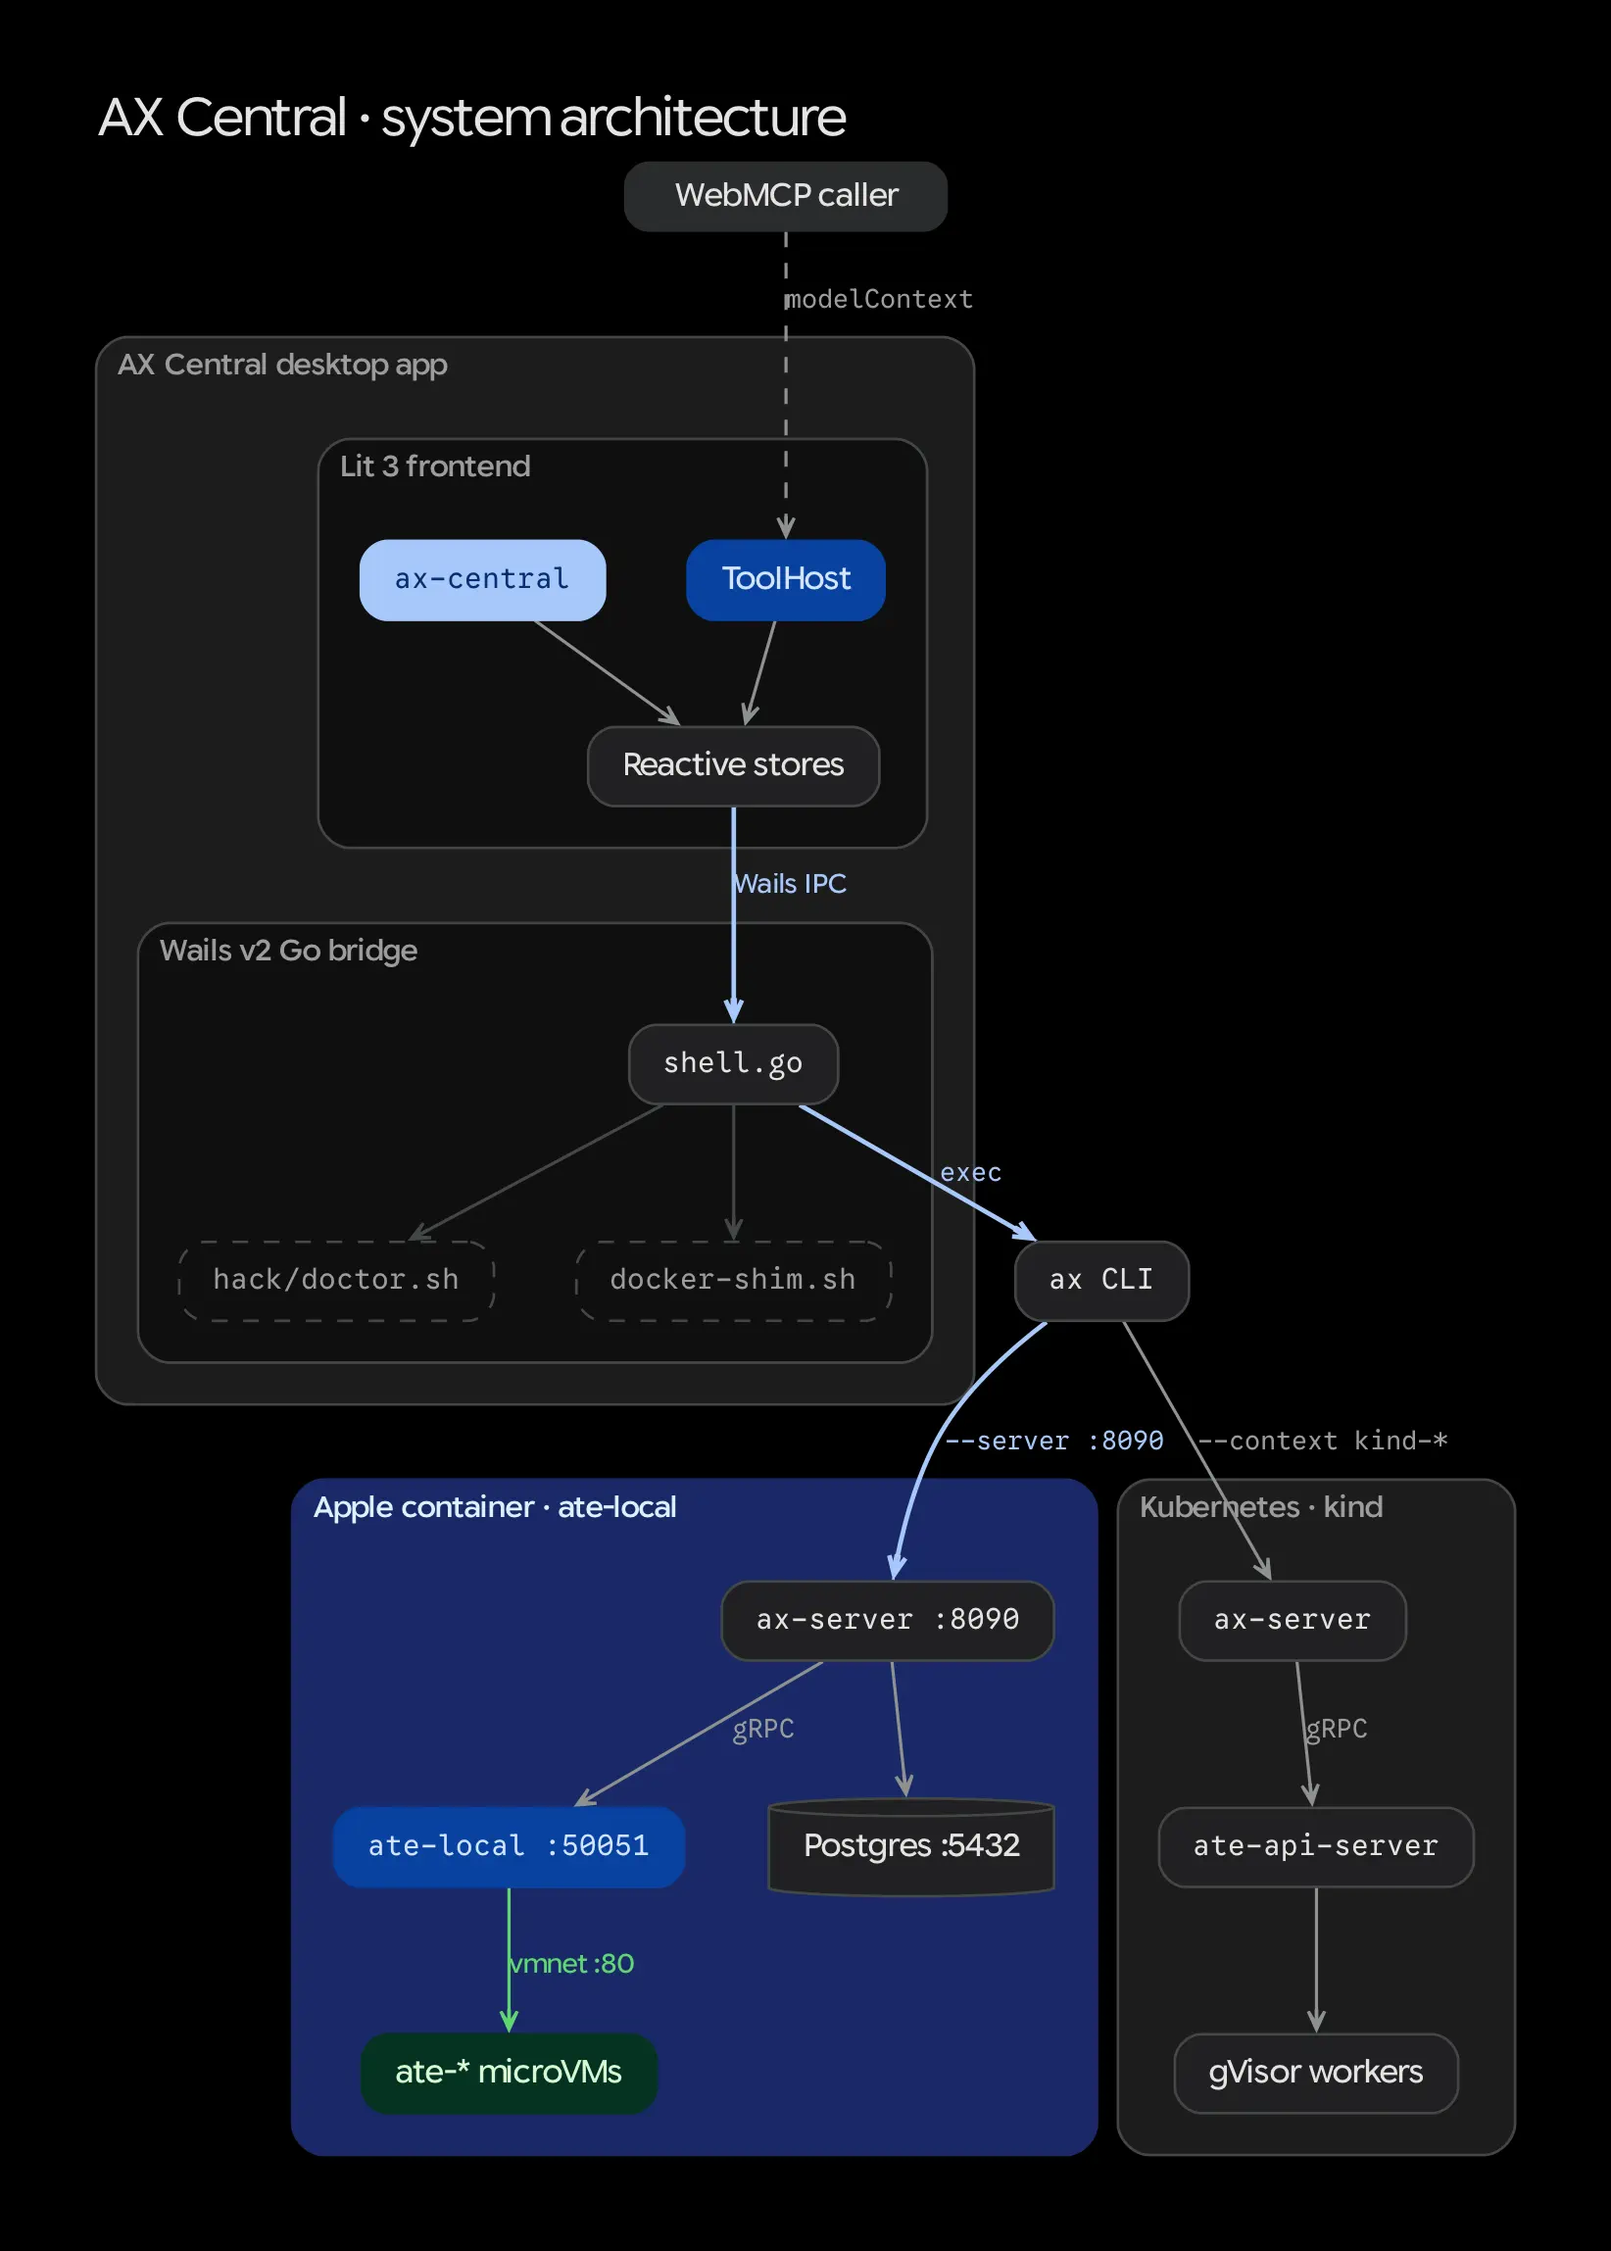
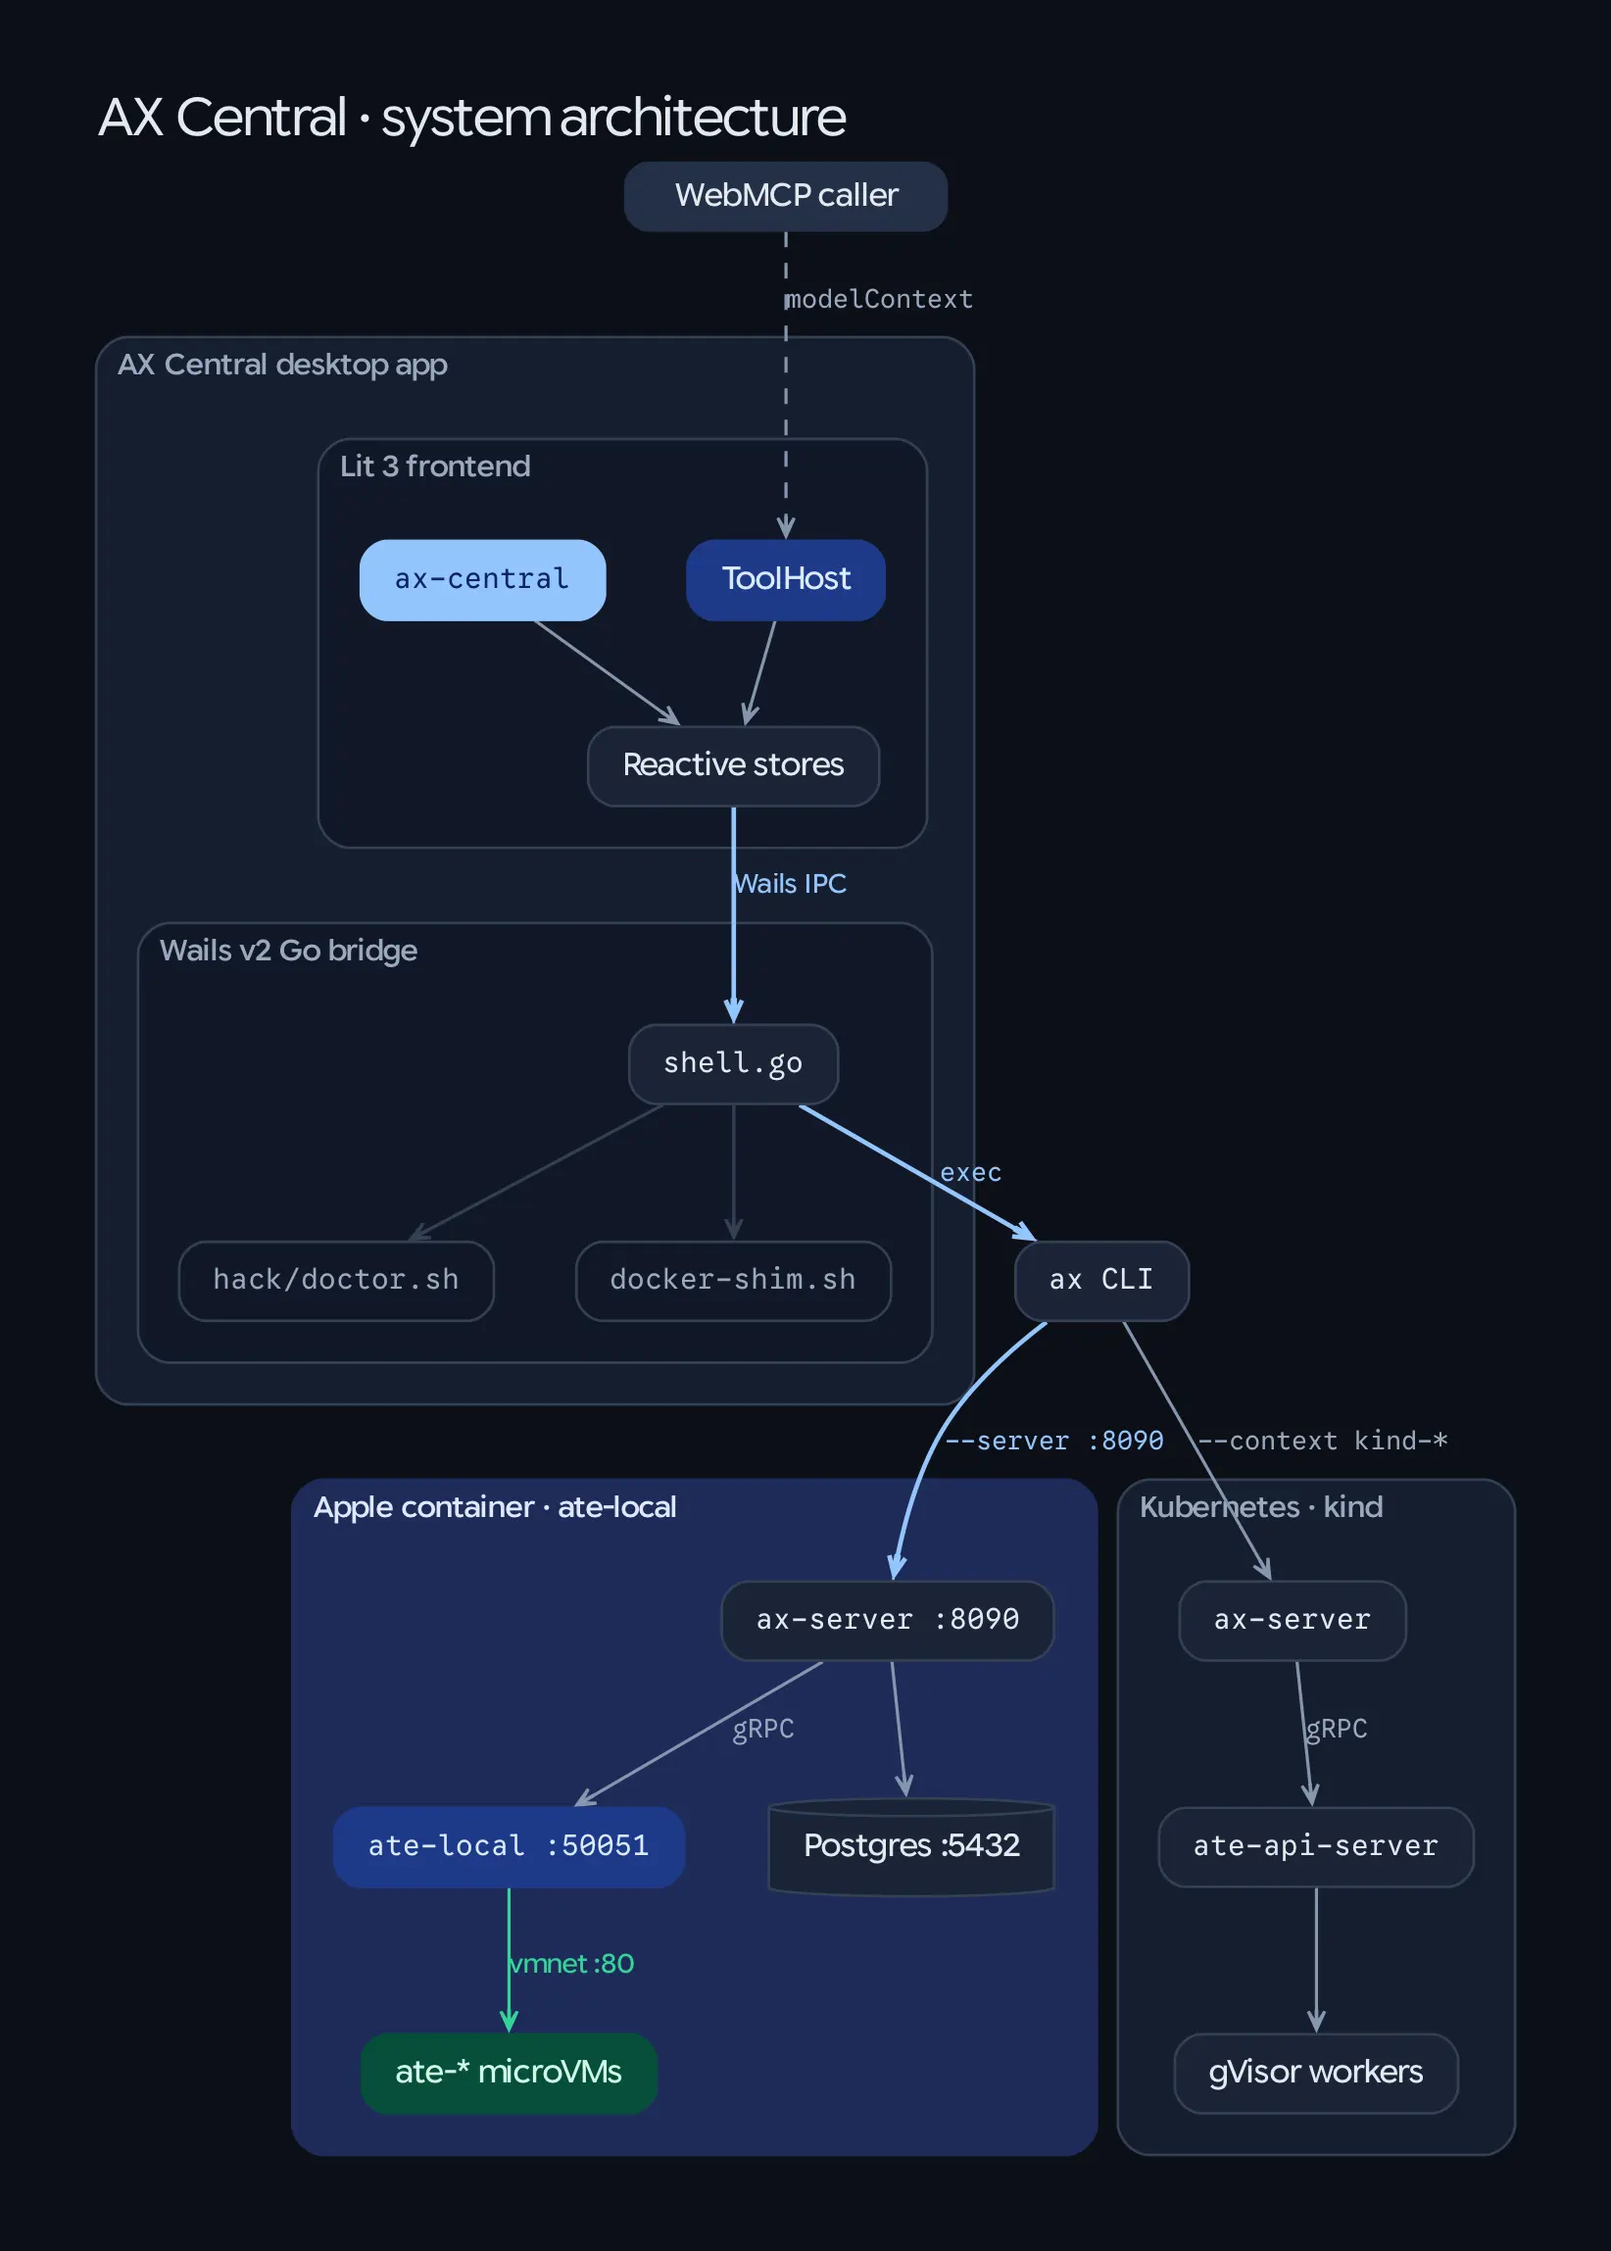
chore(docs): update make diagrams to ../graphviz-style/theme/lustrous.gvpr
Switches Makefile, directives, and CLI reference from the removed
luminous.gvpr path to ../graphviz-style/theme/lustrous.gvpr and
re-renders docs/diagrams/*-{light,dark}.webp.

diff --git a/.agents/directives/docs-and-visuals.md b/.agents/directives/docs-and-visuals.md
@@ -1,6 +1,6 @@
 # Documentation, Diagrams & Visual Assets Directive
 
-This directive governs `README.md`, `CHANGELOG.md`, `docs/**` (Diátaxis), Luminous Graphviz diagrams (`docs/diagrams/*.dot`), and automated WebP screenshots (`docs/screenshots/*.webp`).
+This directive governs `README.md`, `CHANGELOG.md`, `docs/**` (Diátaxis), Lustrous Graphviz diagrams (`docs/diagrams/*.dot`), and automated WebP screenshots (`docs/screenshots/*.webp`).
 
 ## 1. Diátaxis Documentation Architecture (`docs/`)
 Keep the four Diátaxis quadrants strictly separated by user intent:
@@ -21,16 +21,16 @@ Keep the four Diátaxis quadrants strictly separated by user intent:
   - **No non-technical filler `-ly` adverbs**: Cut softeners/intensifiers ("simply", "actually", "genuinely", "notably"); retain technical adverbs ("atomically", "synchronously", "deterministically").
   - **No throat-clearing openers or binary-contrast frames**: Cut "Here's the thing:", "It's worth noting", and `"Not X, it's Y"` tropes.
 
-## 3. Luminous Graphviz Diagrams (`../graphviz-style`)
+## 3. Lustrous Graphviz Diagrams (`../graphviz-style`)
 - **Semantic `.dot` Sources (`docs/diagrams/*.dot`)**:
-  - Use semantic `class="..."` attributes (`primary`, `emphasis`, `accent`, `store`, `code`, `terminal`, `decision`, `external`, `async`, `weak`, `positive`, `warning`, `error`).
-  - Never hardcode hex colors or font names in `.dot` files; styling comes exclusively from `../graphviz-style/theme/luminous.gvpr`.
+  - Use semantic `class="..."` attributes (`primary`, `emphasis`, `accent`, `store`, `code`, `terminal`, `decision`, `external`, `async`, `weak`, `positive`, `warning`, `error`, `cat-*`).
+  - Never hardcode hex colors or font names in `.dot` files; styling comes exclusively from `../graphviz-style/theme/lustrous.gvpr`.
   - Use `primary` at most once or twice per diagram.
 - **Rendering & Verification (`make diagrams`)**:
   - Render both light and dark WebP variants:
     ```sh
-    gvpr -c -f ../graphviz-style/theme/luminous.gvpr -a light <file>.dot | dot -Twebp -o <file>-light.webp
-    gvpr -c -f ../graphviz-style/theme/luminous.gvpr -a dark  <file>.dot | dot -Twebp -o <file>-dark.webp
+    gvpr -c -f ../graphviz-style/theme/lustrous.gvpr -a light <file>.dot | dot -Twebp -o <file>-light.webp
+    gvpr -c -f ../graphviz-style/theme/lustrous.gvpr -a dark  <file>.dot | dot -Twebp -o <file>-dark.webp
     ```
   - Verify `fc-match "Google Sans Flex"` and `fc-match "Google Sans Code"` resolve before rendering, and visually inspect the generated `.webp` files.
   - Commit `.dot` and `*-{light,dark}.webp` files; never commit intermediate `.png` or `.svg` files.

diff --git a/docs/reference/cli-and-webmcp-tools.md b/docs/reference/cli-and-webmcp-tools.md
@@ -20,7 +20,7 @@ This reference documents AX Central's `Makefile` targets, `hack/doctor.sh` CLI f
 | `make bootstrap` | Runs `bash hack/doctor.sh --install all` to clone/build missing Tier-A prerequisites. |
 | `make smoke-local` | Runs `bash hack/smoke-local.sh` to verify a live `debian:12` task lifecycle and cross-atespace (`default -> staging`) `Move Task` `tar`-over-`ax ssh` migration on the local Apple `container` stack. |
 | `make smoke-crostini` | Runs `bash hack/smoke-crostini.sh` to verify a live Workspace + Task lifecycle (`apply`, `resume`, `ax ssh`, `suspend`) on a local `kind` + Agent Substrate (`gVisor`) cluster. |
-| `make diagrams` | Renders `docs/diagrams/*.dot` to `*-{light,dark}.webp` via `gvpr` (`../graphviz-style/theme/luminous.gvpr`) and `dot -Twebp`. |
+| `make diagrams` | Renders `docs/diagrams/*.dot` to `*-{light,dark}.webp` via `gvpr` (`../graphviz-style/theme/lustrous.gvpr`) and `dot -Twebp`. |
 | `make screenshots` | Runs `node hack/screenshots.mjs` to capture `1440×900` (`2x`) light and dark WebP screenshots in `docs/screenshots/`. |
 | `make format` | Formats Go (`gofmt -s -w .`) and frontend TypeScript/CSS (`prettier --write .`). |
 | `make clean` | Removes `ax-central`, `build/bin`, `dist`, and `frontend/dist`. |

diff --git a/README.md b/README.md
@@ -133,7 +133,7 @@ make dev
 # npm audit, Go race tests, and Vitest headless Chromium + axe-core WCAG 2.1 AA tests
 make check
 
-# Re-render Luminous Graphviz diagrams and retina WebP screenshots
+# Re-render Lustrous Graphviz diagrams and retina WebP screenshots
 make diagrams
 make screenshots
 ```
